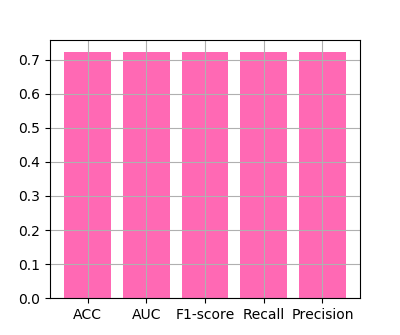
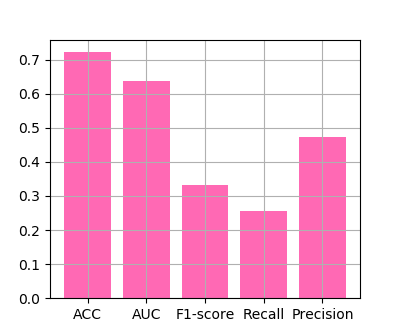
Debug, but not finished

Changed region(s): [[0.3, 0.1493, 0.57, 0.5672], [0.6, 0.1493, 0.72, 0.6269], [0.75, 0.1493, 0.87, 0.4179]]

diff --git a/model/control.py b/model/control.py
@@ -11,21 +11,29 @@ from model.data import read_from_csv
 from model.sdae import SDAE
 
 
-# TODO: Calculate acc, auc, f1-score, recall, precision
 # TODO: Add SDAE model
-# TODO: Debug the whole fucking system
 
 # Calculate acc, auc, f1-score, recall, precision
-def evaluate(real, pred):
-    r = np.reshape(real, [-1])
-    p = np.reshape(pred, [-1])
-    acc = accuracy_score(r, p)
-    auc = roc_auc_score(r, p)
-    f_one_score = f1_score(r, p, average='weighted')
-    recall = recall_score(r, p, average='macro')
-    precision = precision_score(r, p, average='macro')
+def evaluate(tol_label, tol_pred):
+    """
+    对模型的预测性能进行评估
+    :param tol_label: 测试样本的真实标签
+    :param tol_pred: 测试样本的预测概率分布
+    :return: acc, auc, f1-score, recall, precision
+    """
+    assert tol_label.shape == tol_pred.shape
 
-    return acc, auc, f_one_score, recall, precision
+    y_true = np.argmax(tol_label, axis=1)
+    y_pred = np.argmax(tol_pred, axis=1)
+
+    accuracy = accuracy_score(y_true, y_pred)
+    auc = roc_auc_score(tol_label, tol_pred, average=None)
+
+    precision = precision_score(y_true, y_pred, average=None)
+    recall = recall_score(y_true, y_pred, average=None)
+    f_score = f1_score(y_true, y_pred, average=None)
+
+    return accuracy, auc, f_score, recall, precision
 
 
 # Draw acc, auc, f1-score, recall, precision graph
@@ -47,7 +55,7 @@ def draw_event_graph(result, event, model):
         color = "HotPink"
     else:
         color = "CornflowerBlue"
-
+    result = (result[0], result[1][0], result[2][0], result[3][0], result[4][0])
     plt.bar(range(len(result)), result, color=color)
     plt.xticks(range(len(result)), (u"ACC", u"AUC", u"F1-score", u"Recall", u"Precision"))
     plt.savefig("../res/output/" + pic_name)
@@ -150,17 +158,8 @@ def lr_experiment(dataset_path, epoch):
                 bleeding_loss.append(loss)
 
         p = sess.run(pred, feed_dict={x: x_test})
-        for i in range(len(p)):
-            if p[i, 0] >= 0.5:
-                p[i, 0] = 1
-            else:
-                p[i, 0] = 0
-            if p[i, 1] >= 0.5:
-                p[i, 1] = 1
-            else:
-                p[i, 1] = 0
 
-        bleeding_result = evaluate(real=y_test, pred=p)
+        bleeding_result = evaluate(y_test, p)
         draw_event_graph(bleeding_result, event="Bleeding events", model="lr")
 
     ##########################################################################
@@ -190,17 +189,8 @@ def lr_experiment(dataset_path, epoch):
                 ischemic_loss.append(loss)
 
         p = sess.run(pred, feed_dict={x: x_test})
-        for i in range(len(p)):
-            if p[i, 0] >= 0.5:
-                p[i, 0] = 1
-            else:
-                p[i, 0] = 0
-            if p[i, 1] >= 0.5:
-                p[i, 1] = 1
-            else:
-                p[i, 1] = 0
 
-        ischemic_result = evaluate(real=y_test, pred=p)
+        ischemic_result = evaluate(y_test, p)
         draw_event_graph(ischemic_result, event="Ischemic events", model="lr")
 
     if len(bleeding_loss) > sample_quantity:
@@ -264,17 +254,8 @@ def sdae_experiment(dataset_path, epoch, hiddens):
                 bleeding_loss.append(loss)
 
         p = sess.run(pred, feed_dict={x: x_extract_test})
-        for i in range(len(p)):
-            if p[i, 0] >= 0.5:
-                p[i, 0] = 1
-            else:
-                p[i, 0] = 0
-            if p[i, 1] >= 0.5:
-                p[i, 1] = 1
-            else:
-                p[i, 1] = 0
 
-        bleeding_result = evaluate(real=y_test, pred=p)
+        bleeding_result = evaluate(y_test, p)
         draw_event_graph(bleeding_result, event="Bleeding events", model="sdae")
 
     ##########################################################################
@@ -306,16 +287,8 @@ def sdae_experiment(dataset_path, epoch, hiddens):
                 ischemic_loss.append(loss)
 
         p = sess.run(pred, feed_dict={x: x_extract_test})
-        for i in range(len(p)):
-            if p[i, 0] >= 0.5:
-                p[i, 0] = 1
-            else:
-                p[i, 0] = 0
-            if p[i, 1] >= 0.5:
-                p[i, 1] = 1
-            else:
-                p[i, 1] = 0
-        ischemic_result = evaluate(real=y_test, pred=p)
+
+        ischemic_result = evaluate(y_test, p)
         draw_event_graph(ischemic_result, event="Ischemic events", model="sdae")
     if len(bleeding_loss) > sample_quantity:
         bleeding_loss = bleeding_loss[:-1]
@@ -326,4 +299,5 @@ def sdae_experiment(dataset_path, epoch, hiddens):
 
 if __name__ == "__main__":
     hiddens = [256, 128, 64]
-    sdae_experiment("C:/Users/ZM-BAD/Projects/ACSclassifier/res/dataset.csv", 1000, hiddens)
+    # sdae_experiment("C:/Users/ZM-BAD/Projects/ACSclassifier/res/dataset.csv", 1000, hiddens)
+    lr_experiment("C:/Users/ZM-BAD/Projects/ACSclassifier/res/dataset.csv", 1000)

diff --git a/ui/call_panel.py b/ui/call_panel.py
@@ -15,7 +15,7 @@ class ModelThread(QThread):
 
     def __init__(self, dataset_path, model, epochs, hiddens):
         """
-        :param model: 1 lr, 2 sdae
+        :param model: "lr" or "sdae"
         :param epochs: epochs
         :param hiddens: may be used
         """

diff --git a/README.md b/README.md
@@ -27,6 +27,15 @@
 
 ![](https://raw.githubusercontent.com/ZM-BAD/ACSclassifier/master/res/docs/panel.png)
 
+## Install Requirements
+
+```
+pip install -r requirements.txt
+```
+
+
+
+
 ## 技术路线
 编程语言：Python 3.6.5(64-bit)  
 机器学习框架：TensorFlow ~~1.7.0~~ 1.8.0  
@@ -36,7 +45,7 @@ GUI Lib: ~~Tkinter~~ PyQt 5.10.1
 
 - [x] 从dataset中读取数据
 - [x] 建立SDAE，进行特征抽取
-- [ ] 运用LR进行分类，作为benchmark，得出AUC、F1-score、Recall、Precision等模型指标
-- [ ] 利用Softmax对抽取的特征进行分类
+- [x] 运用LR进行分类，作为benchmark，得出AUC、F1-score、Recall、Precision等模型指标
+- [x] 利用Softmax对抽取的特征进行分类
 - [x] 为整个系统构建GUI界面
 - [ ] 模块间联调
